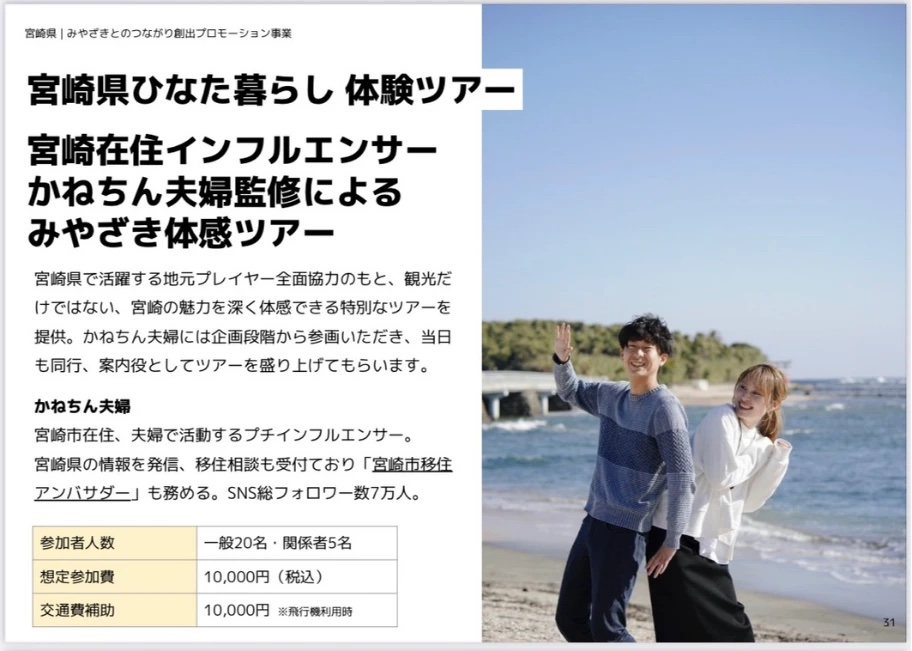
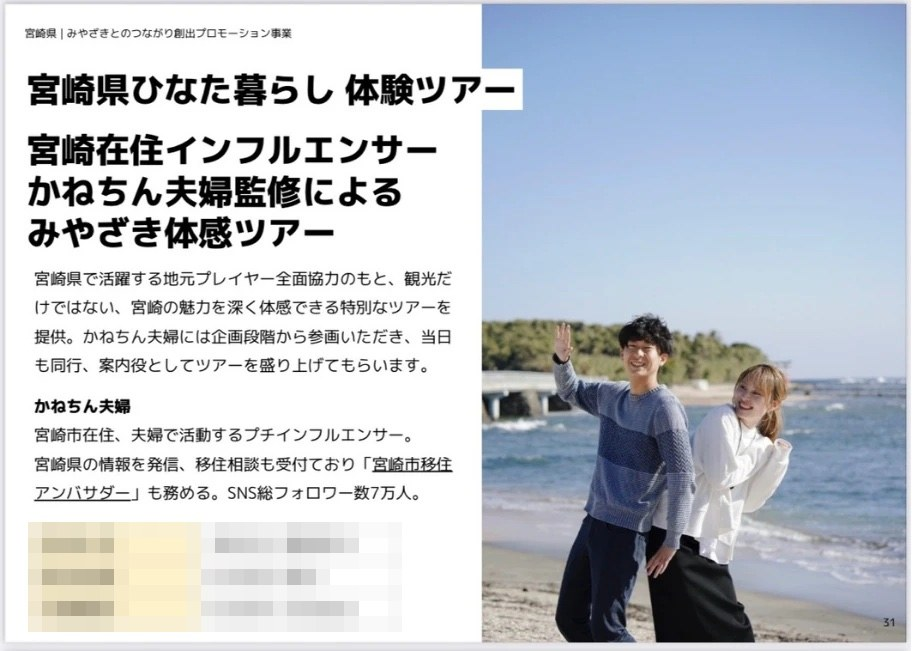
メディア・社会活動：ひなた暮らしの資料の金額にモザイク、みや恋セミナーの写真を追加

Changed region(s): [[0.0307, 0.7988, 0.3991, 0.9831]]

diff --git a/index.html b/index.html
@@ -501,12 +501,20 @@
         <figcaption>アネラカフェ大分（大分県大分市）</figcaption>
       </figure>
       <figure>
-        <img src="./img/tour-hinata.jpg" alt="宮崎県ひなた暮らし体験ツアーの告知資料" loading="lazy">
+        <img src="./img/tour-hinata.jpg?v=20260929m" alt="宮崎県ひなた暮らし体験ツアーの告知資料" loading="lazy">
         <figcaption>行政案件：ひなた暮らし体験ツアー 監修</figcaption>
       </figure>
       <figure>
         <img src="./img/tour-staff.jpg" alt="ひなた暮らし体験ツアー当日のスタッフ証" loading="lazy">
         <figcaption>ツアー当日の案内役</figcaption>
+      </figure>
+      <figure>
+        <img src="./img/miyakoi-flyer.jpg" alt="宮崎市 婚活事業「みや恋」ライフデザインセミナーのチラシ" loading="lazy">
+        <figcaption>宮崎市「みや恋」ライフデザインセミナーに登壇</figcaption>
+      </figure>
+      <figure>
+        <img src="./img/miyakoi-venue.jpg" alt="みや恋セミナーの会場（宮崎観光ホテル）" loading="lazy">
+        <figcaption>セミナー会場（宮崎観光ホテル）</figcaption>
       </figure>
       <figure>
         <img src="./img/kanko-nobeoka.jpg?v=20260826b" alt="延岡観光協会向けに制作した投稿クリエイティブ" loading="lazy">
